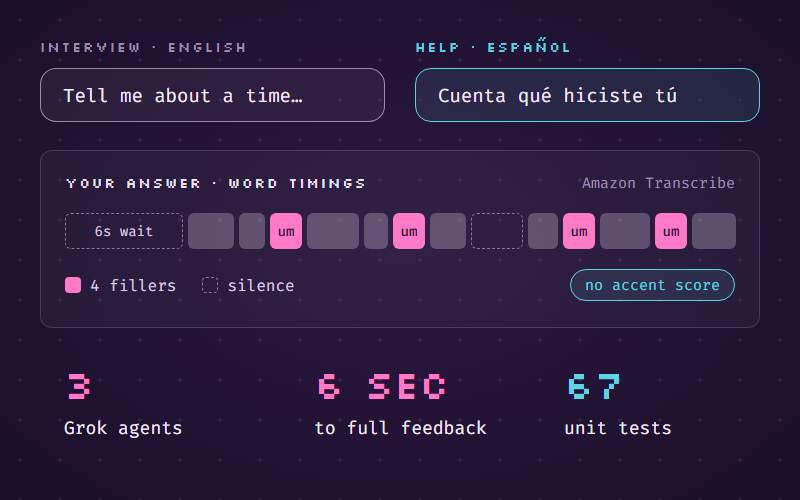
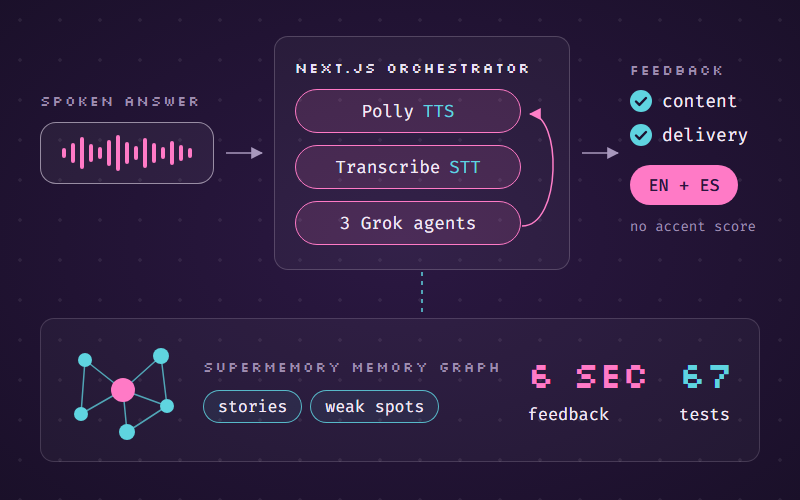
Shift Up: architecture infographic, fuller description
Redraws the thumbnail as an architecture diagram, rewrites the blurb to
name Polly (TTS), Transcribe (STT), content and delivery feedback and
Supermemory's memory graph, and moves the card before Fraud Detection.

diff --git a/src/data/profile.js b/src/data/profile.js
@@ -139,6 +139,20 @@ export const projects = [
     links: [{ label: 'GitHub', url: 'https://github.com/Lightning-Nemesis/multilingual-llm-benchmark' }],
   },
   {
+    id: 'shift-up',
+    title: 'Shift Up',
+    subtitle: 'Bilingual voice coach · sunhacks 2026',
+    blurb:
+      "A voice interview coach for Spanish-speaking workers going for hourly jobs, with the interview in English and the help in Spanish. Amazon Polly speaks the questions (TTS), Amazon Transcribe turns each answer into timed words (STT), and 3 Grok agents interview, coach and give feedback on the content and delivery of every answer in about 6 seconds. Supermemory builds a memory graph of each learner's stories and weak spots, so the next session starts from what was hard.",
+    category: 'genai',
+    tags: ['Next.js', 'Grok', 'Amazon Polly', 'Amazon Transcribe', 'Supermemory'],
+    thumb: 'shift-up.png',
+    links: [
+      { label: 'Live', url: 'https://myshiftup.us/' },
+      { label: 'GitHub', url: 'https://github.com/Lightning-Nemesis/ShiftUp' },
+    ],
+  },
+  {
     id: 'fraud-detection',
     title: 'Fraud Detection System',
     subtitle: 'Outstanding Project Award · CSE 598, ASU',
@@ -149,20 +163,6 @@ export const projects = [
     featured: true,
     thumb: 'fraud-detection.png',
     links: [],
-  },
-  {
-    id: 'shift-up',
-    title: 'Shift Up',
-    subtitle: 'Bilingual voice coach · sunhacks 2026',
-    blurb:
-      'A voice interview coach for Spanish-speaking workers going for hourly jobs: the interview is in English and the help is in Spanish. Behind it, 3 Grok agents act as interviewer, feedback writer and coach, and Amazon Transcribe word timings measure hesitation and fillers, never accent. Feedback comes back in about 6 seconds, backed by 67 unit tests.',
-    category: 'genai',
-    tags: ['Next.js', 'Grok', 'Amazon Transcribe', 'Supermemory'],
-    thumb: 'shift-up.png',
-    links: [
-      { label: 'Live', url: 'https://myshiftup.us/' },
-      { label: 'GitHub', url: 'https://github.com/Lightning-Nemesis/ShiftUp' },
-    ],
   },
   {
     id: 'grid-forecasting',
